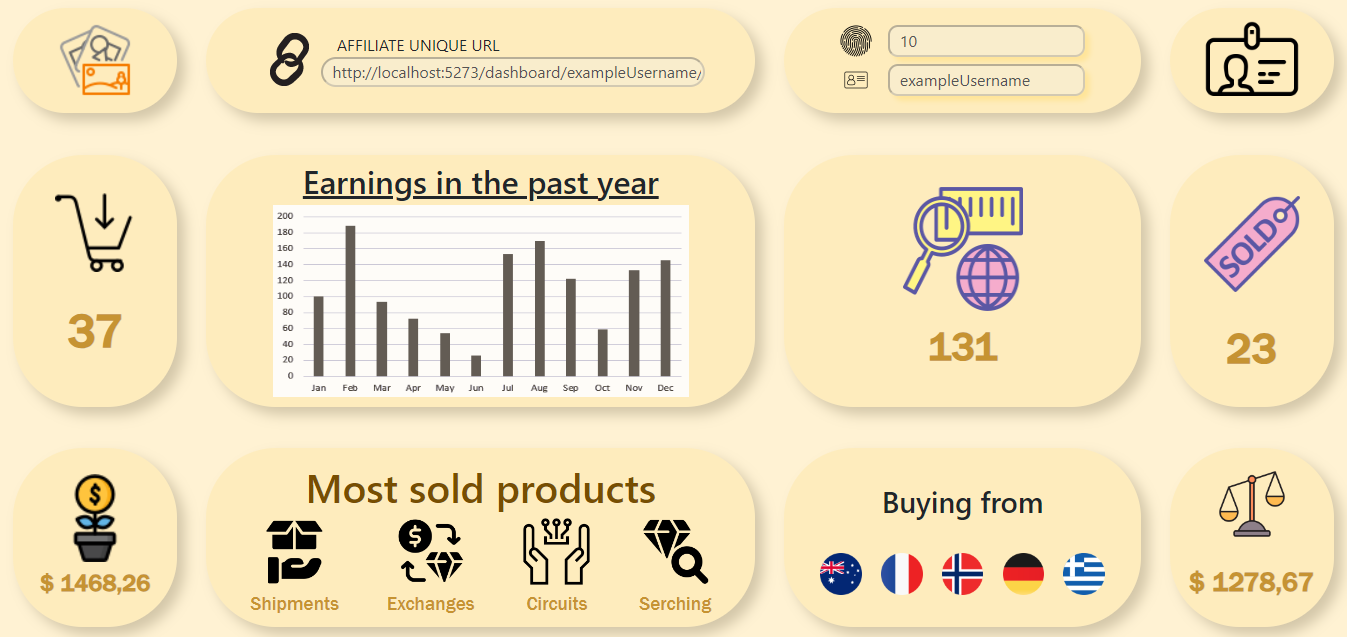
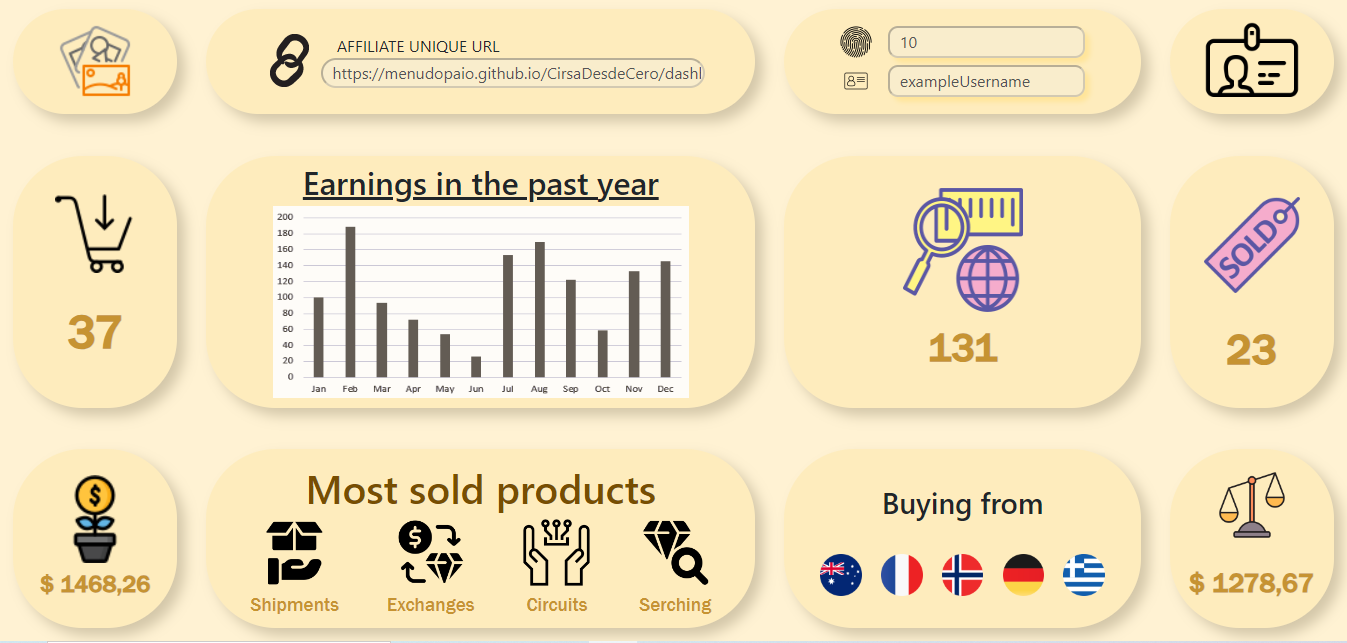
Cambiadas imagenes (falta editStyles) y camhiadas rutas (funciona en localhost solamente ahora)

diff --git a/wwwroot/css/app.css b/wwwroot/css/app.css
@@ -639,6 +639,7 @@ h1:focus {
 }
 .trans button {
     margin-bottom: 1rem;
+    margin-left: 3rem;
     padding: 0.7rem 2rem;
     border-radius: 1rem;
     background-color:#41fc47;
@@ -646,4 +647,5 @@ h1:focus {
 
 .editStylesButtons {
     display: flex;
+
 }
